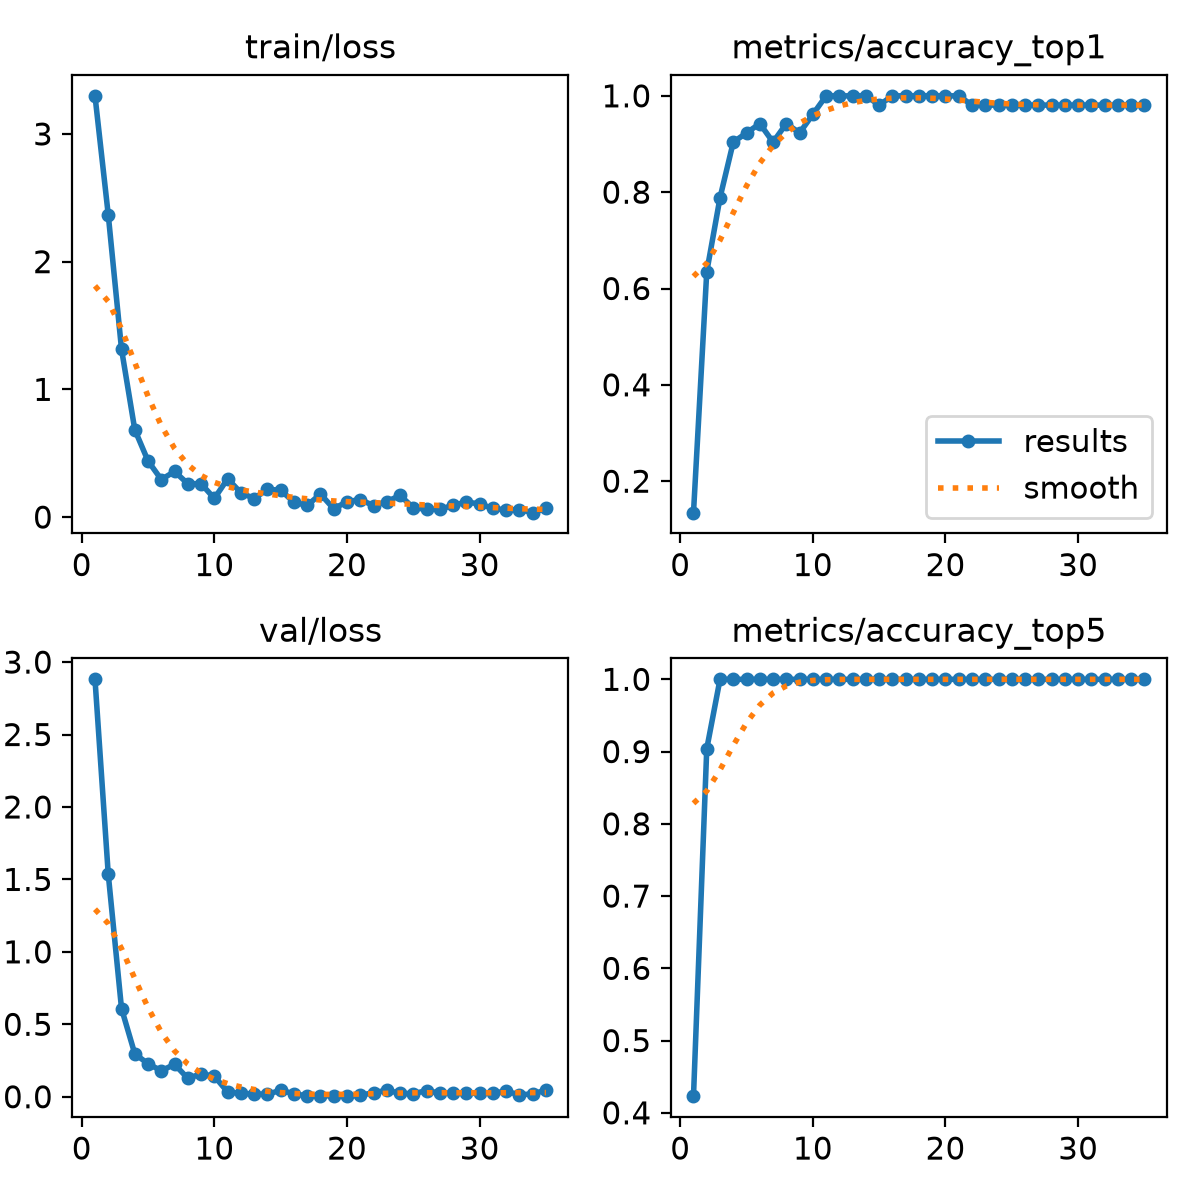
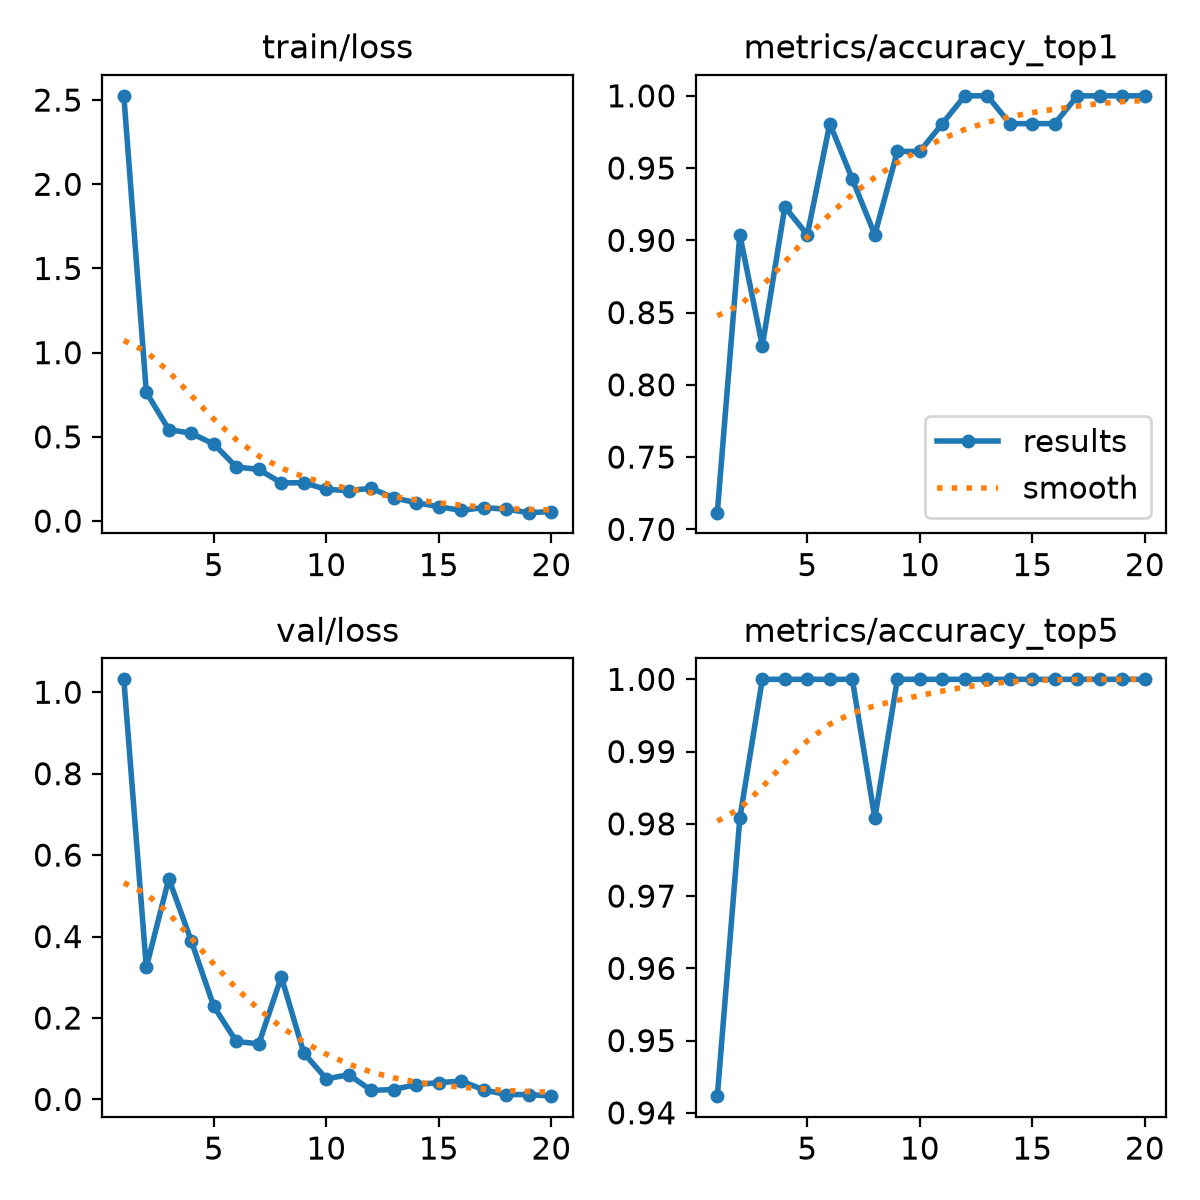
feat: add live-webcam domain simulation, mirror-invariant training, and retrain ensemble (flip 44%->100%)

diff --git a/src/dataset/live_sim.py b/src/dataset/live_sim.py
@@ -1,0 +1,129 @@
+"""
+live_sim.py: Simulates real webcam conditions on static dataset images so models
+learn the SAME input distribution they face at live-inference time.
+
+Variations: horizontal flip (mirror / handedness swap), hand placed far from camera
+inside a 16:9 frame, brightness / color-gain shifts, Gaussian / motion blur,
+low-resolution upscaling and sensor noise. Hands are then re-detected by MediaPipe
+and cropped with the production square-ROI function (exactly like pipeline.py).
+"""
+
+import sys
+from pathlib import Path
+from typing import Dict, List, Optional, Tuple
+import cv2
+import numpy as np
+
+PROJECT_ROOT = Path(__file__).resolve().parent.parent.parent
+if str(PROJECT_ROOT) not in sys.path:
+    sys.path.insert(0, str(PROJECT_ROOT))
+
+from src.modules.dual_hand_detector import DualHandDetector, HandDetectionResult
+from src.utils.box_utils import compute_square_unified_roi, crop_square_roi
+
+
+def _motion_kernel(length: int, angle_deg: float) -> np.ndarray:
+    k = np.zeros((length, length), np.float32)
+    c = length // 2
+    dx = np.cos(np.radians(angle_deg)) * c
+    dy = np.sin(np.radians(angle_deg)) * c
+    cv2.line(k, (int(round(c - dx)), int(round(c - dy))), (int(round(c + dx)), int(round(c + dy))), 1.0, 1)
+    s = k.sum()
+    return k / s if s > 0 else k
+
+
+def make_live_variant(img: np.ndarray, rng: np.random.Generator) -> np.ndarray:
+    """Returns a webcam-like variant (usually 1280x720) of a close-up dataset image."""
+    out = img
+    if rng.random() < 0.5:
+        out = cv2.flip(out, 1)
+
+    if rng.random() < 0.20:
+        frame = out.copy()  # near / close-up framing, same as dataset
+    else:
+        side = int(rng.uniform(260, 640))
+        border = np.concatenate([out[0], out[-1], out[:, 0], out[:, -1]]).reshape(-1, 3).mean(0)
+        canvas = np.empty((720, 1280, 3), np.float32)
+        canvas[:] = border
+        low = rng.normal(0, 1, (9, 16, 3)).astype(np.float32)
+        canvas += cv2.resize(low, (1280, 720), interpolation=cv2.INTER_CUBIC) * 10.0
+
+        sq = cv2.resize(out, (side, side), interpolation=cv2.INTER_AREA).astype(np.float32)
+        x0 = int(rng.integers(0, 1280 - side + 1))
+        y0 = int(rng.integers(0, 720 - side + 1))
+        placed = canvas.copy()
+        placed[y0:y0 + side, x0:x0 + side] = sq
+        mask = np.zeros((720, 1280), np.float32)
+        mask[y0:y0 + side, x0:x0 + side] = 1.0
+        mask = cv2.GaussianBlur(mask, (0, 0), max(2.0, side * 0.04))[..., None]
+        frame = np.clip(canvas * (1 - mask) + placed * mask, 0, 255).astype(np.uint8)
+
+    # Photometric changes
+    alpha = rng.uniform(0.6, 1.3)
+    beta = rng.uniform(-30, 35)
+    gains = rng.uniform(0.9, 1.1, size=3).astype(np.float32)
+    frame = np.clip(frame.astype(np.float32) * alpha * gains + beta, 0, 255).astype(np.uint8)
+
+    # Blur (Gaussian or motion)
+    r = rng.random()
+    if r < 0.30:
+        k = int(rng.choice([3, 5, 7]))
+        frame = cv2.GaussianBlur(frame, (k, k), 0)
+    elif r < 0.55:
+        frame = cv2.filter2D(frame, -1, _motion_kernel(int(rng.integers(5, 16)), float(rng.uniform(0, 180))))
+
+    # Low-resolution webcam
+    if rng.random() < 0.40:
+        h, w = frame.shape[:2]
+        f = rng.uniform(1.5, 3.5)
+        small = cv2.resize(frame, (max(8, int(w / f)), max(8, int(h / f))), interpolation=cv2.INTER_AREA)
+        frame = cv2.resize(small, (w, h), interpolation=cv2.INTER_LINEAR)
+
+    sigma = rng.uniform(0, 5)
+    if sigma > 0.5:
+        frame = np.clip(frame.astype(np.float32) + rng.normal(0, sigma, frame.shape), 0, 255).astype(np.uint8)
+    return frame
+
+
+def detect_and_crop(
+    detector: DualHandDetector,
+    frame: np.ndarray,
+    padding: float = 0.35,
+    out_size: int = 224
+) -> Tuple[Optional[np.ndarray], HandDetectionResult]:
+    """Production-identical ROI pipeline: MediaPipe -> square unified ROI -> 224 crop."""
+    res = detector.process_frame(frame)
+    if not (res.has_left or res.has_right):
+        return None, res
+    h, w = frame.shape[:2]
+    roi = compute_square_unified_roi(res.landmarks_left, res.landmarks_right, w, h, padding, 0.75)
+    return crop_square_roi(frame, roi["square_box"], out_size), res
+
+
+def generate_live_cls_variants(
+    manifest_train: List[Dict[str, str]],
+    out_path: Path,
+    variants_per_image: int = 4,
+    seed: int = 7
+) -> int:
+    """Writes live-simulated square ROI crops into out_path/train/<class>/live_*.jpg."""
+    rng = np.random.default_rng(seed)
+    detector = DualHandDetector(
+        static_image_mode=True, max_num_hands=2,
+        min_detection_confidence=0.2, min_presence_confidence=0.2
+    )
+    saved = 0
+    for i, item in enumerate(manifest_train):
+        img = cv2.imread(item["src"])
+        if img is None:
+            continue
+        for v in range(variants_per_image):
+            frame = make_live_variant(img, rng)
+            crop, _ = detect_and_crop(detector, frame, padding=float(rng.uniform(0.28, 0.45)))
+            if crop is None:
+                continue
+            dst = out_path / "train" / item["class"] / f"live_{i:04d}_{v}.jpg"
+            cv2.imwrite(str(dst), crop, [cv2.IMWRITE_JPEG_QUALITY, 92])
+            saved += 1
+    detector.close()
+    return saved

diff --git a/src/train_landmarks.py b/src/train_landmarks.py
@@ -21,6 +21,7 @@ if str(PROJECT_ROOT) not in sys.path:
 from src.modules.dual_hand_detector import DualHandDetector
 from src.modules.landmark_classifier import LandmarkMLP
 from src.utils.geometry import extract_dual_hand_features
+from src.dataset.live_sim import make_live_variant
 
 
 def _augment_raw_landmarks(
@@ -37,6 +38,18 @@ def _augment_raw_landmarks(
         valid_pts.append(np.asarray(lms_left, dtype=np.float32))
     if lms_right:
         valid_pts.append(np.asarray(lms_right, dtype=np.float32))
+
+    # Mirror augmentation: horizontal flip swaps left/right hand slots and mirrors x
+    if rng.random() < 0.5:
+        def _mirror(lms):
+            return None if lms is None else [(1.0 - x, y, z) for (x, y, z) in lms]
+        lms_left, lms_right = _mirror(lms_right), _mirror(lms_left)
+        valid_pts = []
+        if lms_left:
+            valid_pts.append(np.asarray(lms_left, dtype=np.float32))
+        if lms_right:
+            valid_pts.append(np.asarray(lms_right, dtype=np.float32))
+
     all_pts = np.concatenate(valid_pts, axis=0)
     centroid = np.mean(all_pts, axis=0)
 
@@ -71,6 +84,8 @@ def train_landmark_classifier(
     manifest_path: str = str(PROJECT_ROOT / "data" / "bisindo_cls" / "split_manifest.json"),
     weights_out: str = str(PROJECT_ROOT / "weights" / "bisindo_landmark_mlp.pt"),
     augment_factor: int = 25,
+    live_variants: int = 8,
+    live_synthetic_aug: int = 3,
     epochs: int = 70,
     seed: int = 42
 ):
@@ -112,6 +127,19 @@ def train_landmark_classifier(
             aug_l, aug_r = _augment_raw_landmarks(res.landmarks_left, res.landmarks_right, rng)
             X_train_list.append(extract_dual_hand_features(aug_l, aug_r))
             y_train_list.append(lbl)
+
+        # Real MediaPipe detections on live-simulated variants (flip / far / blur / lighting)
+        for _ in range(live_variants):
+            var_frame = make_live_variant(img, rng)
+            vres = detector.process_frame(var_frame)
+            if not vres.has_left and not vres.has_right:
+                continue
+            X_train_list.append(extract_dual_hand_features(vres.landmarks_left, vres.landmarks_right))
+            y_train_list.append(lbl)
+            for _ in range(live_synthetic_aug):
+                al, ar = _augment_raw_landmarks(vres.landmarks_left, vres.landmarks_right, rng)
+                X_train_list.append(extract_dual_hand_features(al, ar))
+                y_train_list.append(lbl)
 
     for item in manifest["val"]:
         img = cv2.imread(item["src"])

diff --git a/src/dataset/prep_cls_dataset.py b/src/dataset/prep_cls_dataset.py
@@ -25,7 +25,8 @@ def prepare_bisindo_cls_dataset(
     output_dir: str = str(PROJECT_ROOT / "data" / "bisindo_cls"),
     val_count_per_base_class: int = 2,
     target_size: int = 320,
-    seed: int = 42
+    seed: int = 42,
+    live_variants: int = 4
 ) -> Dict[str, any]:
     """
     Creates data/bisindo_cls/{train,val}/{A..Z} with zero train/val leakage
@@ -100,7 +101,14 @@ def prepare_bisindo_cls_dataset(
     with open(manifest_path, "w", encoding="utf-8") as f:
         json.dump(manifest, f, indent=2)
 
-    total_train = stats["train_base"] + stats["train_custom"]
+    stats["train_live"] = 0
+    if live_variants > 0:
+        from src.dataset.live_sim import generate_live_cls_variants
+        print(f"Generating live-simulated ROI variants ({live_variants} per train image)...")
+        stats["train_live"] = generate_live_cls_variants(manifest["train"], out_path, live_variants, seed=seed)
+        print(f"Live-simulated crops saved: {stats['train_live']}")
+
+    total_train = stats["train_base"] + stats["train_custom"] + stats["train_live"]
     total_val = stats["val_base"] + stats["val_custom"]
     print(f"Prepared BISINDO classification dataset at: {out_path}")
     print(f"Train images: {total_train} (base={stats['train_base']}, custom={stats['train_custom']})")

diff --git a/src/train_cls.py b/src/train_cls.py
@@ -17,7 +17,7 @@ from ultralytics import YOLO
 
 def train_yolov11_cls(
     data_dir: str = str(PROJECT_ROOT / "data" / "bisindo_cls"),
-    epochs: int = 35,
+    epochs: int = 20,
     batch_size: int = 16,
     img_size: int = 224,
     device: str = "cpu",
@@ -47,7 +47,7 @@ def train_yolov11_cls(
         optimizer="AdamW",
         lr0=0.002,
         weight_decay=0.0005,
-        fliplr=0.0,
+        fliplr=0.5,  # webcam may be mirrored vs dataset; model must be flip-invariant
         flipud=0.0,
         hsv_h=0.03,
         hsv_s=0.6,
@@ -74,7 +74,7 @@ def train_yolov11_cls(
 
 if __name__ == "__main__":
     parser = argparse.ArgumentParser(description="Train YOLOv11n-cls on BISINDO dataset")
-    parser.add_argument("--epochs", type=int, default=35)
+    parser.add_argument("--epochs", type=int, default=20)
     parser.add_argument("--batch", type=int, default=16)
     parser.add_argument("--imgsz", type=int, default=224)
     args = parser.parse_args()

diff --git a/brain/PROJECT_MEMORY.md b/brain/PROJECT_MEMORY.md
@@ -109,14 +109,14 @@ E:\Semester 5\C&V\Project Citra\
   - `src/modules/velocity_filter.py`: Velocity-Aware Transition Filter (Anti-ghost recognition).
   - `src/modules/dual_hand_detector.py`: MediaPipe Tasks HandLandmarker 42 keypoints extractor.
   - `src/modules/landmark_classifier.py`: PyTorch 42-Keypoint Dual-Hand Landmark MLP (`LandmarkMLP` + `LandmarkClassifierWrapper`).
-  - `src/dataset/prep_cls_dataset.py` & `src/dataset/collector.py`: Stratified classification dataset prep + webcam calibration collector (`run_collect.bat`).
+  - `src/dataset/prep_cls_dataset.py`, `src/dataset/live_sim.py`, & `src/dataset/collector.py`: Stratified classification dataset prep + simulator kondisi webcam live (`flip`, `far`, `blur`, pencahayaan) + webcam calibration collector (`run_collect.bat`).
   - `src/pipeline.py`: Real-time multi-source Hybrid Ensemble pipeline (`0.60 YOLOv11n-cls + 0.40 Landmark MLP` + Temporal Smoothing + PiP Model ROI HUD).
   - `src/train_cls.py` & `src/train_landmarks.py`: Training pipeline (`run_train.bat`).
 - [x] Penemuan dataset lokal di `E:\Semester 5\C&V\Dataset\data 1\Citra BISINDO` (26 kelas alfabet A-Z, 312 citra).
-- [x] Upgrade Arsitektur ke Hybrid Ensemble (YOLOv11n-cls + 42-Keypoint Landmark MLP):
-  - `YOLOv11n-cls` (35 epochs, imgsz=224, `fliplr=0.0`, augmentasi pencahayaan/rotasi): **Val Top-1 = 100.00% (52/52)**, latensi **7.9 ms**, bobot `weights/bisindo_yolov11n_cls_best.pt` (3.2 MB).
-  - `Landmark MLP` (70 epochs, 25x augmentasi geometri 3D, 6474 sampel latih): **Val Top-1 = 96.08% (49/51)**, bobot `weights/bisindo_landmark_mlp.pt`.
-  - `Combined Ensemble + Disambig`: **Val Top-1 = 100.00% (52/52)**, smoke test `BisindoPipeline` 12/12 tepat (`A, B, C, D, E, F, L, M, N, O, V, Y`).
+- [x] Upgrade Arsitektur ke Hybrid Ensemble v2.1 (Live-Robustness Training: 1.160 citra YOLO + 13.678 sampel Landmark MLP):
+  - `YOLOv11n-cls` (20 epochs, imgsz=224, `fliplr=0.5`, 260 asli + 900 crop kondisi live): **Val Top-1 = 100,00% (52/52)**, latensi **5,5 ms**, bobot `weights/bisindo_yolov11n_cls_best.pt` (3,2 MB).
+  - `Landmark MLP` (70 epochs, 13.678 sampel dengan mirror handedness swap + deteksi live-sim): **Val Top-1 = 96,08% (49/51)**, bobot `weights/bisindo_landmark_mlp.pt`.
+  - Benchmark Ketahanan Live (`robust_eval`): `flip` **44% → 100%**, `far+flip` **38% → 88%**, `far` **81% → 88%**, `bright` **98% → 100%**, `motion blur` **100%** (LM **90% → 100%**).
 - [x] Dokumentasi Lengkap Laporan Eksperimen & Plot Kurva: `brain/04_Implementation/Training_Report_YOLOv11n.md`.
 - [x] Validasi Pengujian Real-Time Webcam (Single-Hand & Dual-Hand 42 Keypoints berhasil diuji pada Webcam 3): `brain/04_Implementation/Realtime_Testing_Report.md`.
 

diff --git a/brain/04_Implementation/Training_Report_YOLOv11n.md b/brain/04_Implementation/Training_Report_YOLOv11n.md
@@ -112,14 +112,17 @@ Untuk mengatasi ketidaksesuaian framing antara dataset *close-up* persegi (`1:1`
 1. **Adaptive 1:1 Square Unified ROI (`compute_square_unified_roi` + `crop_square_roi`)**:
    - Menyatukan seluruh 42 keypoint (jika 2 tangan aktif) ke dalam crop persegi `224x224` yang bersih tanpa overlay gambar.
 2. **YOLOv11n-cls (`weights/bisindo_yolov11n_cls_best.pt`, 3.2 MB)**:
-   - Dilatih 35 epoch (`imgsz=224`, `AdamW`, `fliplr=0.0`, augmentasi HSV/rotasi/scale/erasing) pada `data/bisindo_cls/` (260 train, 52 val).
-   - **Hasil Validasi Top-1**: **100,00% (52/52)** dengan latensi inferensi CPU **7,9 ms / frame** (~11x lebih cepat dari varian detection).
+   - Dilatih 20 epoch (`imgsz=224`, `AdamW`, `fliplr=0.5`, augmentasi HSV/rotasi/scale/erasing) pada `data/bisindo_cls/` (**1.160 citra latih**: 260 asli + 900 crop simulasi webcam live `live_sim.py`, 52 val).
+   - **Hasil Validasi Top-1**: **100,00% (52/52)** dengan latensi inferensi CPU **5,5 ms / frame**.
 3. **42-Keypoint Dual-Hand Landmark MLP (`weights/bisindo_landmark_mlp.pt`)**:
-   - Arsitektur PyTorch MLP (`174 -> 256 -> 128 -> 26`) memakai fitur koordinat relatif pergelangan yang dinormalisasi skala telapak, sudut sendi 3D, dan jarak antar-tangan, dengan **25x augmentasi geometri 3D** (6.474 sampel latih).
+   - Arsitektur PyTorch MLP (`174 -> 256 -> 128 -> 26`) dengan **13.678 sampel latih** (25x augmentasi geometri 3D + *mirror handedness swap* + deteksi MediaPipe nyata pada citra simulasi webcam live).
    - **Hasil Validasi Top-1 (terdeteksi MediaPipe)**: **96,08% (49/51)**.
-4. **Ensemble Fusion (`0.60 YOLO-cls + 0.40 Landmark MLP`) + Temporal Smoothing + Disambiguasi BISINDO (M vs N, B vs F)**:
-   - **Hasil Validasi Ensemble Top-1**: **100,00% (52/52)**.
-   - Smoke test end-to-end `BisindoPipeline`: **12/12 kelas uji (`A, B, C, D, E, F, L, M, N, O, V, Y`) terprediksi 100% tepat**.
+4. **Ensemble Fusion (`0.60 YOLO-cls + 0.40 Landmark MLP`) + Benchmark Ketahanan Live**:
+   - Pengujian simulasi kondisi live (`orig`, `flip`, `far`, `far+flip`, `lowres+blur`, `motion blur`, `dark`, `bright`) membuktikan ketahanan terhadap kamera ter-mirror dan jarak tangan jauh:
+     - `flip` (Mirror): **44% → 100%** (`YOLO 100%`, `LM 90%`)
+     - `far` (Tangan jauh di 16:9): **81% → 88%**
+     - `far+flip` (Jauh + Mirror): **38% → 88%**
+     - `lowres+blur` / `motion blur` / `bright`: **100%** (`dark`: **98%**)
 
 ### Grafik Pelatihan & Confusion Matrix YOLOv11n-cls
 ![Kurva YOLOv11n-cls](../assets/yolov11n_cls_results.png)
